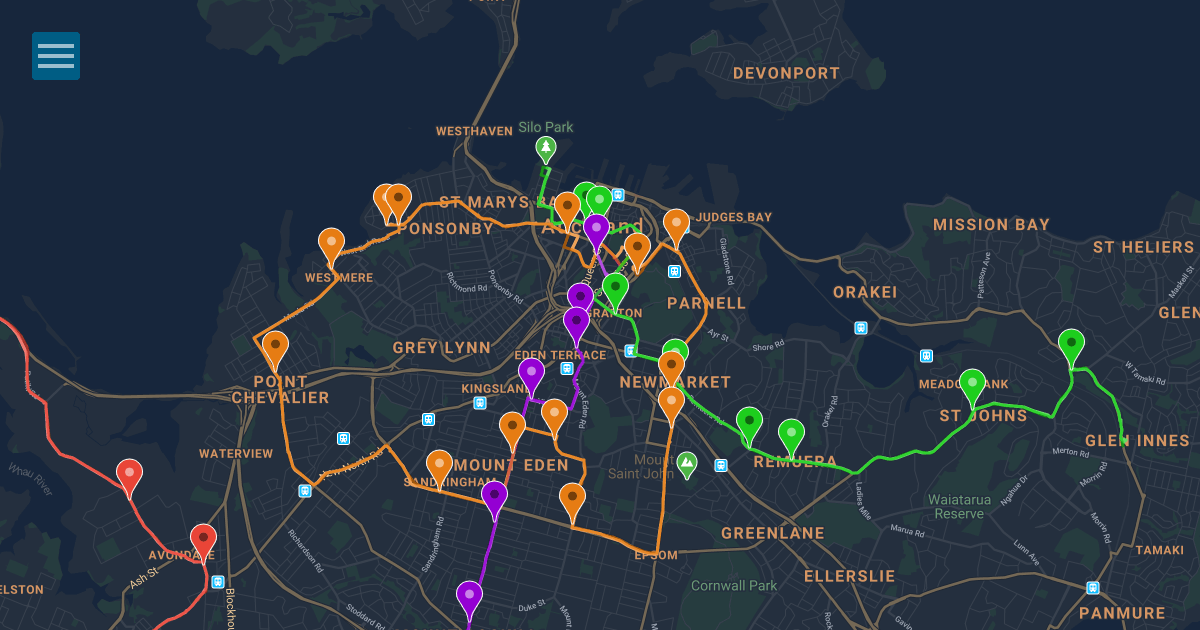
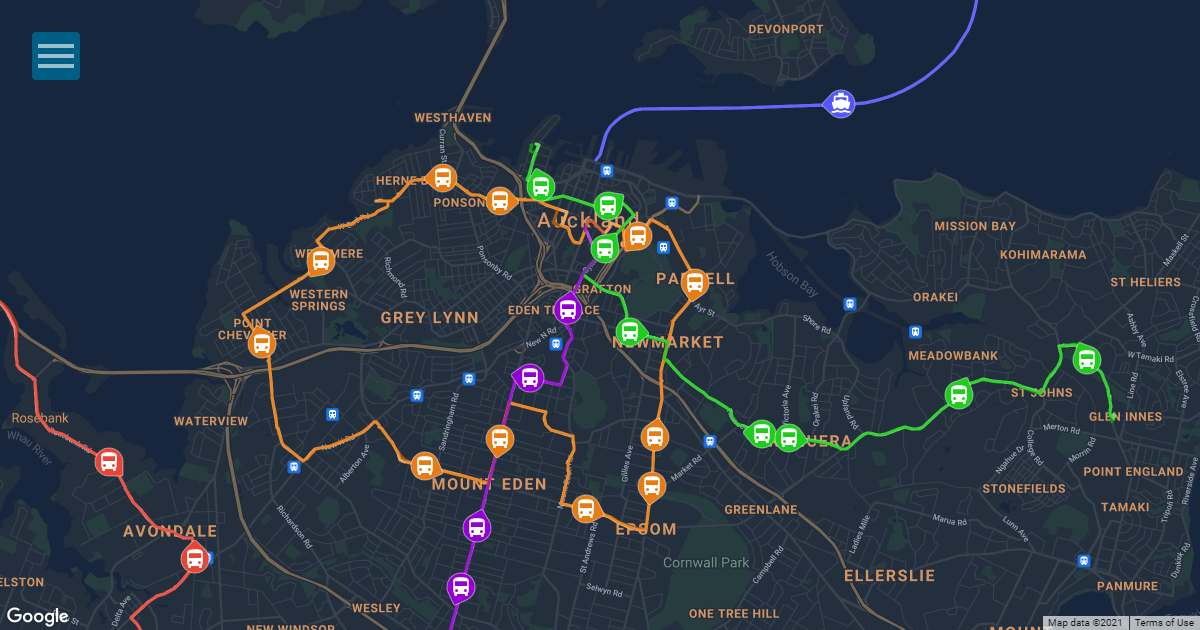
Update Open Graph image
Add `simpleDark` map theme (manually used when generating Open Graph image)

diff --git a/packages/web/src/ts/mapThemes.ts b/packages/web/src/ts/mapThemes.ts
@@ -140,4 +140,29 @@ mapThemes.dark = [
     },
 ];
 
+mapThemes.simpleDark = [
+    ...mapThemes.dark,
+    {
+        featureType: "administrative.neighborhood",
+        stylers:     [{ visibility: "off" }],
+    },
+    {
+        featureType: "landscape",
+        elementType: "labels",
+        stylers:     [{ visibility: "off" }],
+    },
+    {
+        featureType: "poi",
+        stylers:     [{ visibility: "off" }],
+    },
+    {
+        featureType: "poi.park",
+        stylers:     [{ visibility: "on" }],
+    },
+    {
+        featureType: "transit.line",
+        stylers:     [{ visibility: "off" }],
+    },
+];
+
 export default mapThemes;

diff --git a/packages/web/src/ts/index.ts b/packages/web/src/ts/index.ts
@@ -130,6 +130,7 @@ function onGeolocationError(err: GeolocationPositionError) {
     if (process.env.NODE_ENV === "development") {
         Object.assign(window, {
             api,
+            mapThemes,
             settings,
             state,
         });
